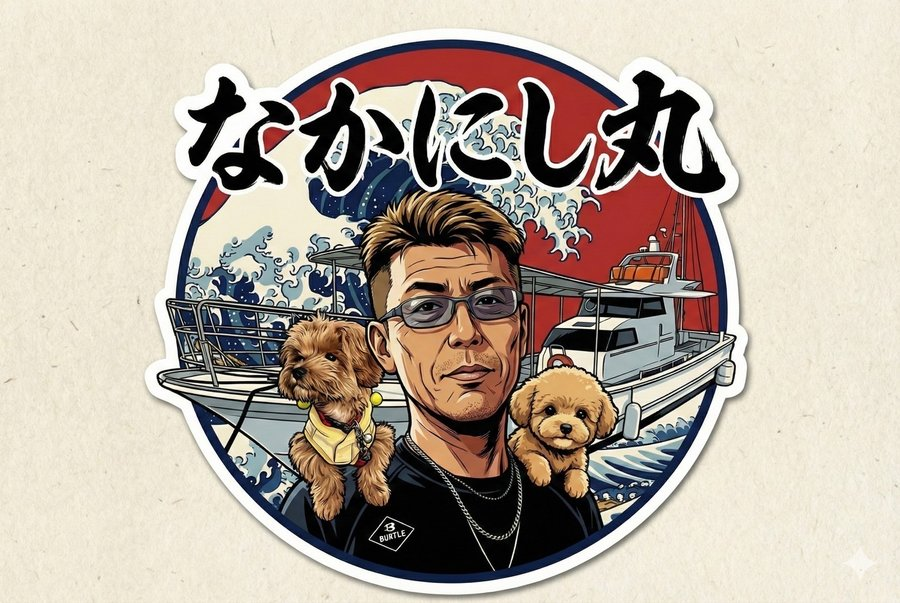
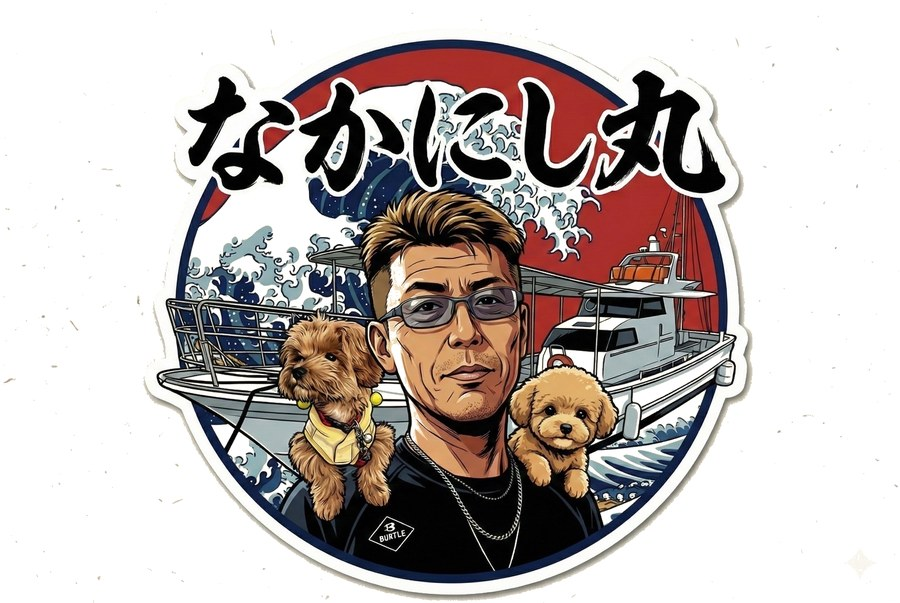
Add files via upload

diff --git a/index.html b/index.html
@@ -105,7 +105,7 @@ h2.sec-title{font-family:"Yusei Magic","Noto Sans JP",sans-serif;font-size:clamp
 .price-sec{background:var(--white);position:relative;overflow:hidden;}
 .captain-sec{background:var(--sky-pale);}
 .captain-card{background:#fff;border-radius:16px;overflow:hidden;box-shadow:0 4px 24px rgba(13,50,96,.08);}
-.captain-photo{width:100%;max-width:200px;margin:0 auto;background:#e2eef7;border-radius:12px;overflow:hidden;}
+.captain-photo{width:100%;max-width:200px;margin:0 auto;background:#fff;border-radius:12px;overflow:hidden;}
 .captain-photo img{width:100%;height:auto;display:block;}
 .captain-photo-ph{aspect-ratio:4/3;display:flex;flex-direction:column;align-items:center;justify-content:center;color:var(--sub);font-size:32px;gap:6px;}
 .captain-photo-ph span{font-size:12px;}
